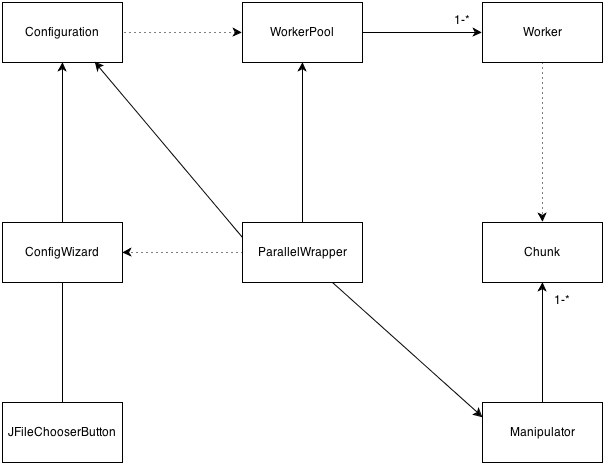
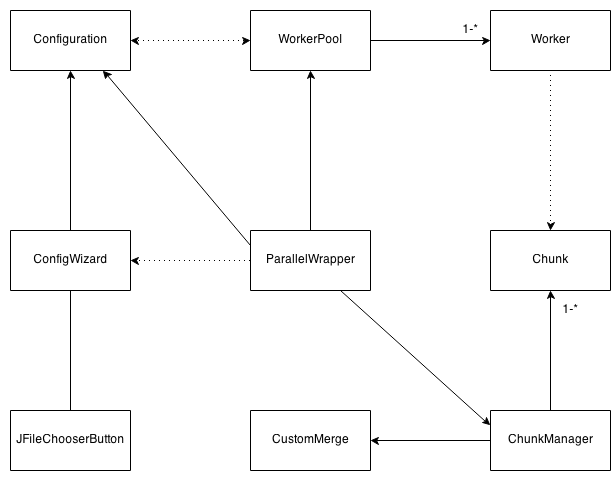
Coding work, log messages, config saving doesnt work still

diff --git a/src/main/java/edu/unh/schwartz/epframework/config/Configuration.java b/src/main/java/edu/unh/schwartz/epframework/config/Configuration.java
@@ -140,6 +140,11 @@ public final class Configuration
      * The method used to merge the results.
      */
     private int mergeMethod;
+
+    /**
+     * Whether or not to save the config file.
+     */
+    private boolean save;
     
     /**
      * Constructs a configuration file from a map.
@@ -186,10 +191,7 @@ public final class Configuration
                      this.numberOfHeaderLines = Integer.valueOf((String) val);
                      break;
                  case SAVE_KEY:
-                     if ((boolean) val)
-                     {
-                         saveConfig();
-                     }
+                     this.save = (boolean) val;
                      break;
                  case MERGE_METHOD_KEY:
                      this.mergeMethod = Integer.valueOf((String) val);
@@ -199,7 +201,32 @@ public final class Configuration
              }
          }
 
-         // TODO: Assertions here
+         // Check to make sure necessary fields were filled
+         boolean crash = false;
+         if (this.inputFileDirName == null && this.inputFileName == null)
+         {
+             LOG.fatal("An input file or directory must be selected");
+             crash = true;
+         }
+         else if (this.outDirName == null)
+         {
+             LOG.fatal("An output directory must be selected");
+             crash = true;
+         }
+         else if (this.execPath == null)
+         {
+             crash = true;
+             LOG.fatal("An executable must be selected");
+         }
+
+         if (crash)
+         {
+             System.exit(1);
+         }
+         else if (this.save)
+         {
+             saveConfig();
+         }
     }
 
     /**
@@ -383,6 +410,7 @@ public final class Configuration
         final JsonFactory jsonFactory = new JsonFactory(); 
         try
         {
+            LOG.info("Saving configuration in " + this.outDirName);
             final File file = new File(this.outDirName + "/config.txt");
             final JsonGenerator jg = jsonFactory.createGenerator(file, 
                     JsonEncoding.UTF8);
@@ -396,6 +424,7 @@ public final class Configuration
                 jg.writeStringField(IN_FILE_DIR_KEY, this.inputFileDirName);
             }
 
+            LOG.info("Made it");
             jg.writeStringField(OUT_FILE_KEY, this.outDirName);
             jg.writeStringField(EXEC_LOC_KEY, this.execPath);
             jg.writeStringField(IN_FLAG_KEY, this.inFlag);
@@ -404,6 +433,7 @@ public final class Configuration
             jg.writeBooleanField(STATS_KEY, this.makeStats);
             jg.writeNumberField(NUM_HEADER_KEY, this.numberOfHeaderLines);
             jg.close();
+            LOG.info("Configuration saved");
         }
         catch (IOException e)
         {

diff --git a/src/main/java/edu/unh/schwartz/epframework/ChunkManager.java b/src/main/java/edu/unh/schwartz/epframework/ChunkManager.java
@@ -180,13 +180,14 @@ public final class ChunkManager
                 externalMerge(fileName);
                 break;
             default:
-                LOG.fatal("Illegal mergeMethod");
+                LOG.fatal("Illegal Merge Method");
                 assert(false);
         }
     }
 
     private void defaultMerge(final String fileName)
     {
+        LOG.info("Using Default Merge");
         try(final PrintWriter writer = new PrintWriter(fileName))
         {
             writer.print(this.chunks.get(0).getHeader());
@@ -204,11 +205,14 @@ public final class ChunkManager
 
     private void customMerge(final String fileName)
     {
+        LOG.info("Using Custom Merge");
         CustomMerge.merge(fileName, this.chunks);
     }
 
     private void externalMerge(final String fileName) 
     {
+        LOG.info("Using External Merge");
+
         // Prepare the args
         final List<String> commands = new ArrayList<String>();
         commands.add(EXTERNAL_MERGE_EXEC_NAME);
@@ -260,7 +264,7 @@ public final class ChunkManager
         {
             final String comma = ",";
             final String header = "Chunk #,Length,Runtime(ms)";
-            statsOut.println(workerStats);
+            statsOut.print(workerStats);
             LOG.debug(workerStats);
 
             statsOut.println(header);
@@ -270,7 +274,7 @@ public final class ChunkManager
                 final Chunk c = this.chunks.get(i);
                 final StringBuilder sb = new StringBuilder();
                 sb.append(c.hashCode()).append(comma).append(c.length());
-                sb.append(comma).append(c.getRuntime()).append('\n');
+                sb.append(comma).append(c.getRuntime());
                 statsOut.println(sb.toString());
                 LOG.debug(sb.toString());
             }

diff --git a/src/main/java/edu/unh/schwartz/epframework/config/ConfigWizard.java b/src/main/java/edu/unh/schwartz/epframework/config/ConfigWizard.java
@@ -61,7 +61,7 @@ public final class ConfigWizard
 
         window.setDefaultCloseOperation(JDialog.DISPOSE_ON_CLOSE);
         window.getContentPane().add(wc);
-        window.setSize(375, 250);
+        window.setSize(380, 290);
         window.setLocationRelativeTo(null);
     }
 
@@ -192,7 +192,7 @@ public final class ConfigWizard
             add(splitField);
             add(new JLabel("(Leave blank to use every new line)"));
 
-            add((new JLabel("--------------- OR ---------------")));
+            add((new JLabel("               ------ OR ------               ")));
 
             // Settings for the input directory
             final JFileChooserButton inDirChooser = new JFileChooserButton(true);
@@ -278,6 +278,12 @@ public final class ConfigWizard
             headerField.setPreferredSize(new Dimension(50, 20));
             add(new JLabel("Number of header lines in output files: "));
             add(headerField);
+            add(new JLabel(SEP));
+ 
+            final JCheckBox savebox = new JCheckBox();
+            savebox.setName(Configuration.SAVE_KEY);
+            add(new JLabel("Save Configuration File?"));
+            add(savebox);
         }
     }
 
@@ -287,11 +293,7 @@ public final class ConfigWizard
         {
             super("Confirmation", "Confirmation Page");
 
-            final JCheckBox box = new JCheckBox();
-            box.setName(Configuration.SAVE_KEY);
-            add(new JLabel("Save Configuration File?"));
-            add(box);
-            // add(new JLabel(SEP));
+            add(new JLabel("TODO"));
 
             //TODO: Review entered values
             // add(new JLabel("Confirm String:"));

diff --git a/src/main/java/edu/unh/schwartz/epframework/worker/Worker.java b/src/main/java/edu/unh/schwartz/epframework/worker/Worker.java
@@ -120,15 +120,15 @@ public final class Worker extends Thread
                 pb.redirectErrorStream(true);
 
                 // Start the work and capture the time it takes to run
-                LOG.info("Starting chunk on thread " + this.idNum);
+                LOG.info("Starting chunk on Worker " + this.idNum);
                 final long start = System.currentTimeMillis();
                 final Process proc = pb.start();
                 proc.waitFor();
                 final long end = System.currentTimeMillis();
                 c.setRuntime(end - start);
                 runTime += (end - start);
-                LOG.info("Finished chunk " + c.hashCode() + " on thread " + 
-                        this.idNum + " in " + (end - start));
+                LOG.info("Finished chunk on Worker " + this.idNum + " in " + 
+                        (end - start));
             }
             catch (InterruptedException|IOException e)
             {
@@ -137,6 +137,7 @@ public final class Worker extends Thread
 
             this.chunksRun++;
         }
+        LOG.info("Worker " + this.idNum + " has finished");
     }
     
     /**

diff --git a/paper/paper.tex b/paper/paper.tex
@@ -151,7 +151,8 @@ flags for the executable and the statistics output are just a few choice the
 user can make. A start-up wizard is displayed at runtime to systematically allow
 the end-user to choose the settings for the run. The ConfigWizard class brings 
 the user through this process and creates an instance of Configuration when it 
-is completed to save the user's settings.
+is completed to save the user's settings, allowing the user to rerun with the
+same settings without having to go through the ConfigWizard.
 
 Lastly, the worker threads will keep records during execution. The threads 
 records their uptime and the number of pieces of work they execute. The runtime 

diff --git a/src/main/java/edu/unh/schwartz/epframework/EPFramework.java b/src/main/java/edu/unh/schwartz/epframework/EPFramework.java
@@ -75,14 +75,16 @@ final class EPFramework
         wp.start();
 
         // Merge the results back together
-        cm.merge(config.getOutputDirectory() + "/done.txt", 
+        cm.merge(config.getOutputDirectory() + "/finalOutput", 
             config.getMergeMethod());
 
         // Make stats if instructed to 
         if (config.makeStats())
         {
+            LOG.info("Printing stats");
             cm.printStats(wp.getStats(), config.getOutputDirectory());
         }
+        LOG.info("Cleaning up");
         cm.cleanUp();
     }
 

diff --git a/src/main/java/edu/unh/schwartz/epframework/worker/WorkerPool.java b/src/main/java/edu/unh/schwartz/epframework/worker/WorkerPool.java
@@ -65,6 +65,8 @@ public final class WorkerPool
             LOG.fatal("Worker interrupted: " + e.getMessage());
             System.exit(1);
         }
+
+        LOG.info("Workers finished");
     }
 
     /**

diff --git a/README.md b/README.md
@@ -26,7 +26,7 @@ gradle build
 Usage
 --------
 To run:
-gradle run <Optional Config File>
+java -jar EPFramework-1.0.jar <Optional Config File>
 
 When using the configuration file, the framework will immediatly begin dividing
 up the work and processesing it.
